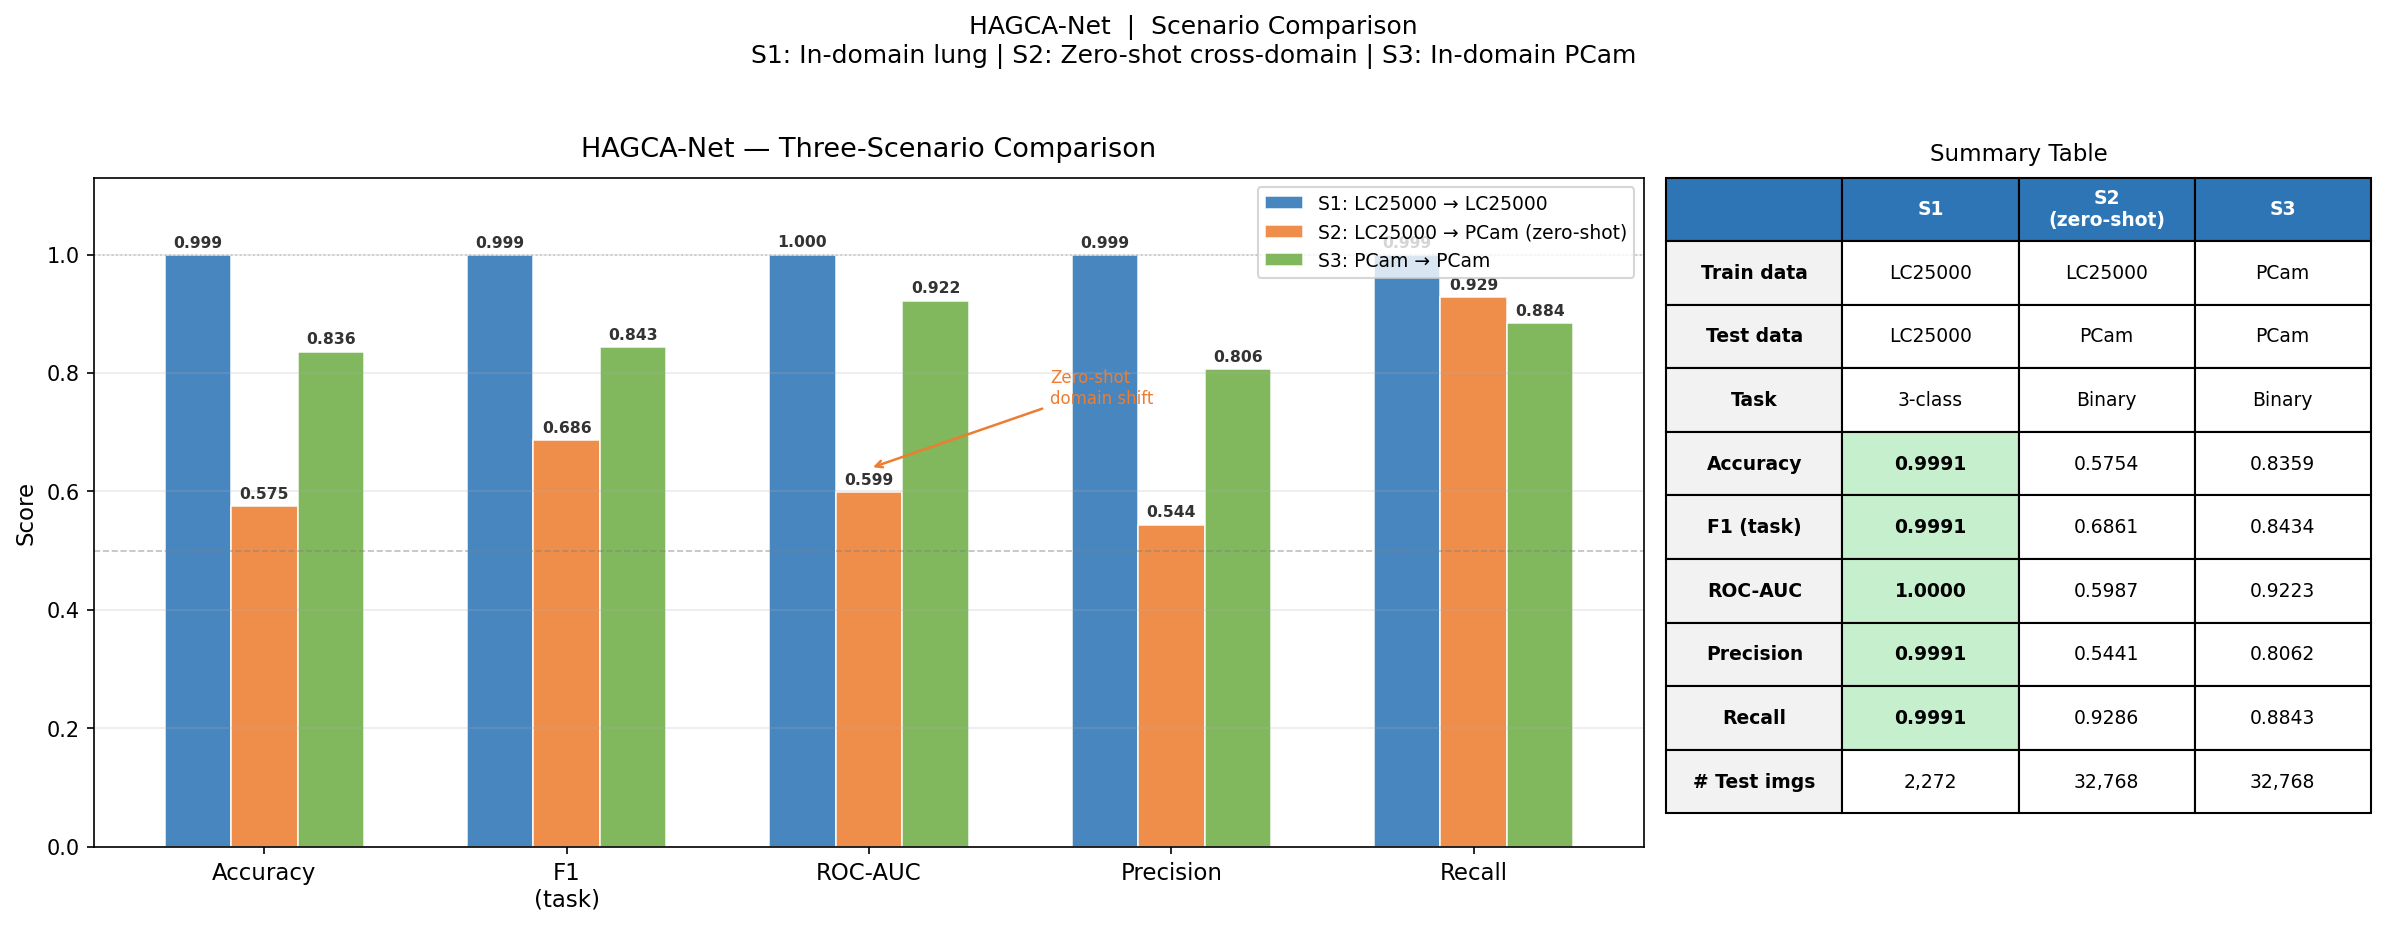
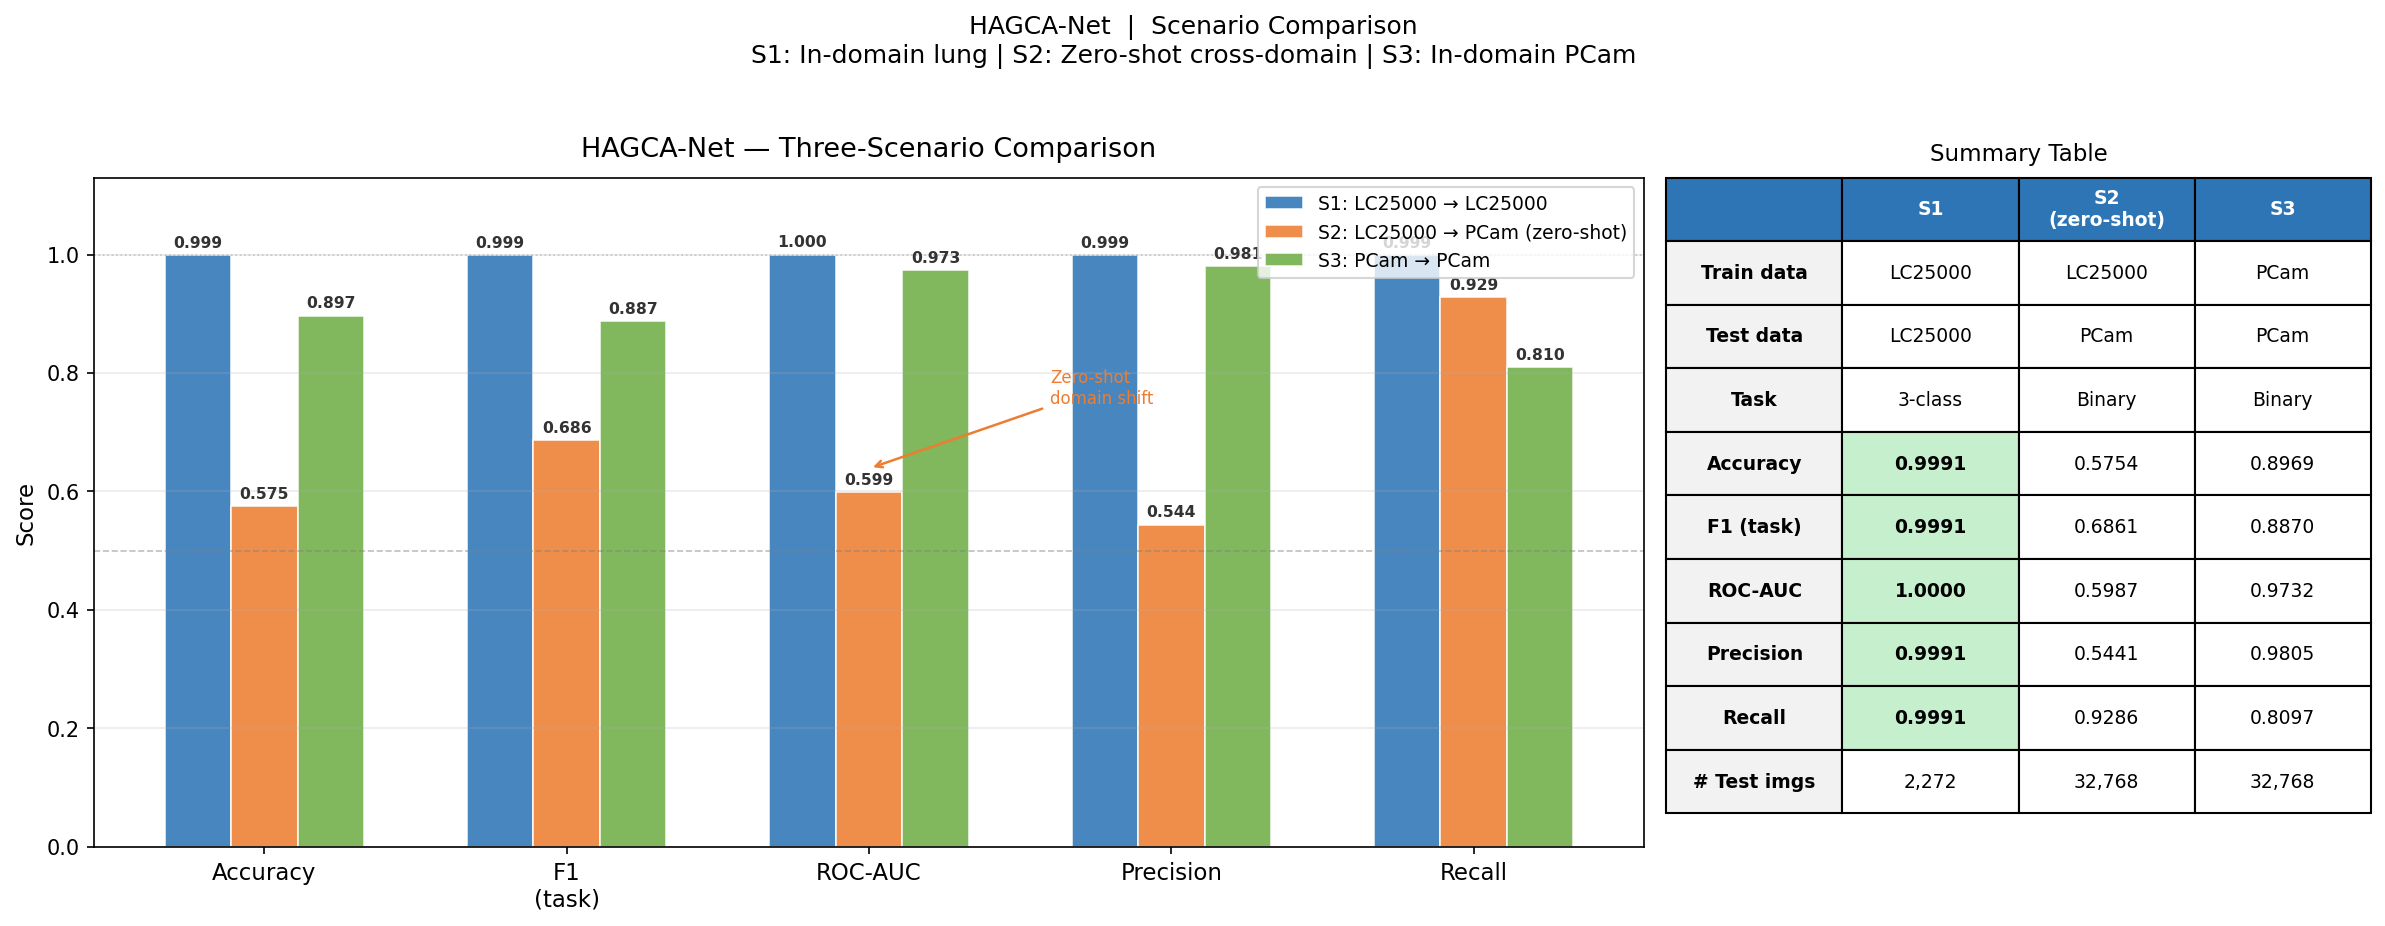
v2

diff --git a/src/13_pcam_train_test.py b/src/13_pcam_train_test.py
@@ -85,7 +85,7 @@ HAGCANet = _model.HAGCANet
 # ============================================================================
 
 # ---- Training scale ---------------------------------------------------------
-MAX_TRAIN_SAMPLES = 130_000      # None = full 262,144  (recommended for >98%)
+MAX_TRAIN_SAMPLES = None     # None = full 262,144  (recommended for >98%)
 MAX_VAL_SAMPLES   = 16_384    # subset of the 32,768 validation images for speed
 MAX_TEST_SAMPLES  = None      # None = full 32,768  (always evaluate all)
 